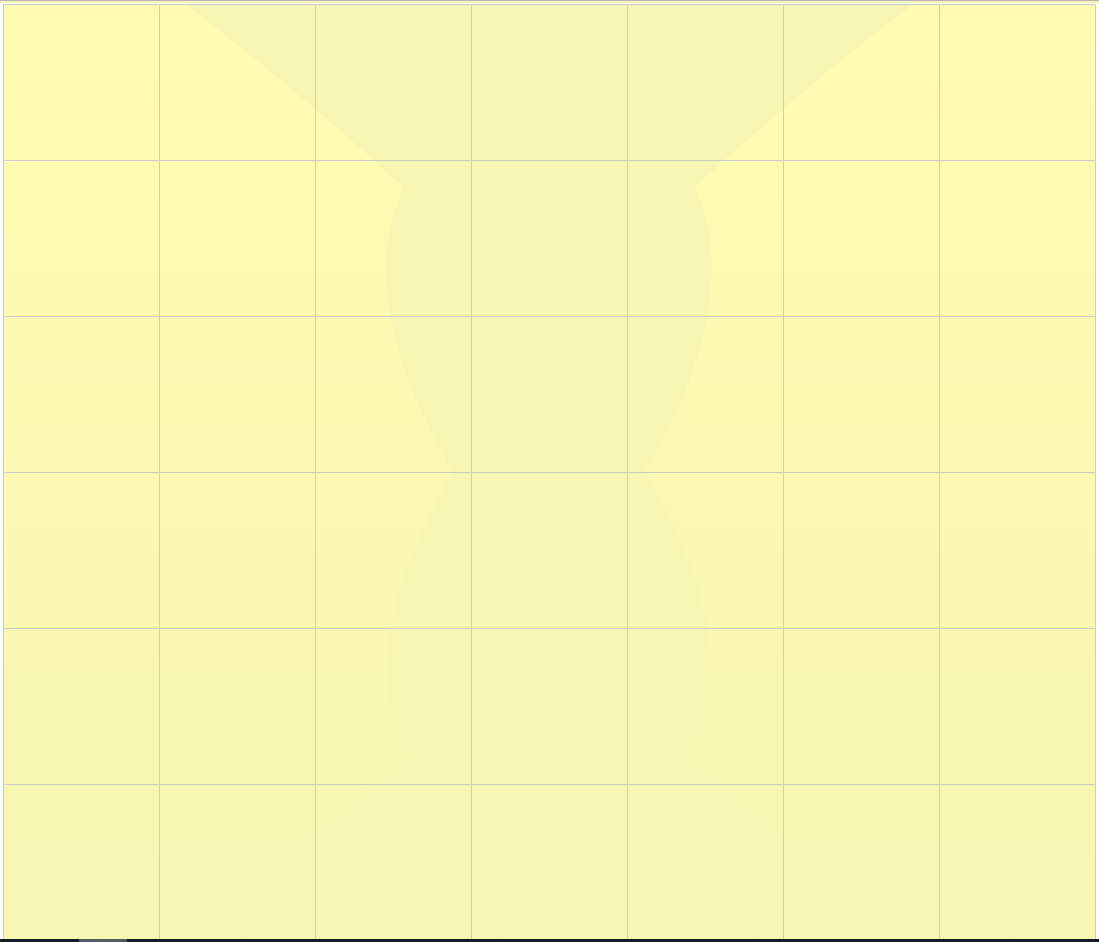
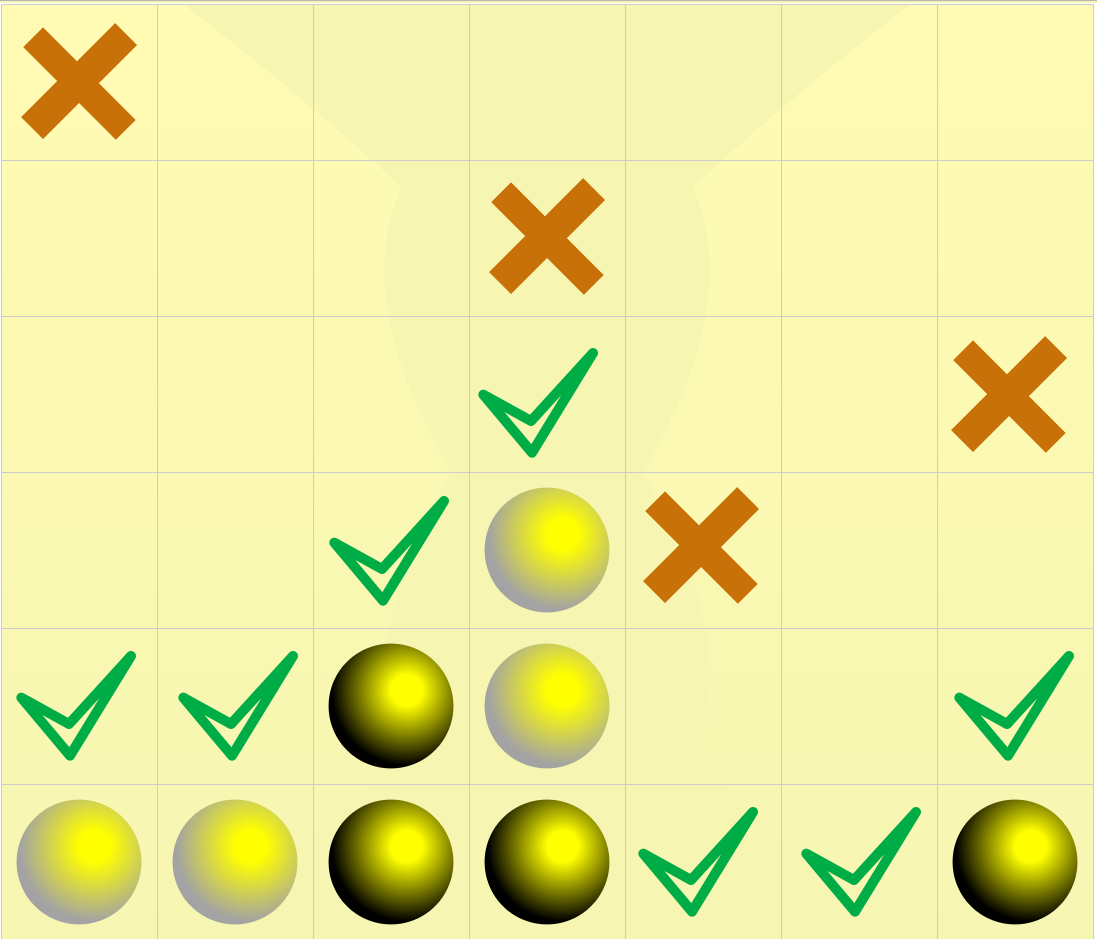
screen size photo loader

diff --git a/js/Website.js b/js/Website.js
@@ -13,7 +13,7 @@ const SS = {
     btnSkip: document.getElementById("skip"),
     btn1: document.getElementById("goToGame"),
     instr1: document.getElementById("instr"),
-    draw1: document.getElementById("draw-1"),
+    drawWelcome: document.getElementById("draw-1"),
 
     drawIndex: 0,
 
@@ -88,34 +88,32 @@ const DS = {
 // this method checks every 3 seconds screen size and load proper draw
     _widthChecker: function(){
         let width = window.screen.width;
-
-        setInterval(() => {
-          width =   window.screen.width;
-          console.log("widthChecker", width);
-          
-        }, 3000);
         return width;
     },
-    draw1 : document.getElementById("draw-1"),
-    draw2 : document.getElementById("draw-2"),
-    draw3 : document.getElementById("draw-3"),
-    draw4 :  document.getElementById("draw-4"),
-    loadBigPhoto: function(width){
-        console.log("width", width);
-    // TO DO TO DO TO DO - stil not loading proper photo
+    draw4 : document.getElementById("draw-4"),
+    draws: [document.getElementById("draw-1"), document.getElementById("draw-2"), document.getElementById("draw-3")],
+    _loadBigPhoto: function(width){
         if (width > 850) {        
-            //if big screen load bigger draw    
-            this.draw1.src = "res/1xl.png"
-            console.log("suuukces",  this.draw1.src);
+//if big screen load bigger draw                
+            for (let i = 0; i < 3; i++) {
+                this.draws[i].src = "res/" + [i] + "xl.png"                
+             }
+             this.draw4.src = "res/0xl.png";
         } else {
-            //if small screen use default small photo
-            this.draw1.src = "res/1s.png";
-            console.log("suuukces",  this.draw1.src);
+//if small screen use default small photo
+            for (let i = 0; i < 3; i++) {
+                this.draws[i].src = "res/" + [i] + "s.png"
+            }
+            this.draw4.src = "res/0s.png";
         }
     }
 }
-DS.loadBigPhoto(DS._widthChecker());
 
+// screen size photo loader
+setInterval(() => {
+    let width = DS._widthChecker()
+    DS._loadBigPhoto(width);
+    }, 1000);
 
 // main screen switches
 SS.screen2.addEventListener("click", function(e){
@@ -145,11 +143,11 @@ SS.btnNext.addEventListener("click", function(e){
 });
 SS.btnPrev.addEventListener("click", function(e){
     e.preventDefault();
-    SS._goNext(SS.instr1,SS.draw1);
+    SS._goNext(SS.instr1,SS.drawWelcome);
 })
 SS.btnNext.addEventListener("click", function(e){
     e.preventDefault();
-    SS._goNext(SS.instr1, SS.draw1);
+    SS._goNext(SS.instr1, SS.drawWelcome);
 })
 
 

diff --git a/index.html b/index.html
@@ -85,19 +85,19 @@ change canvas size
                     <div class="mainScreen__display">
                         <p class="mainScreen__firstInstruction" id="instr">Click on "Prev" and "Next" button to read game instructions. Use "Skip" to start game without instructions.</p>
                         <div class="mainScreen__drawContainer">
-                                <img src="res/1s.png" alt="instruction draw - playboard" class="mainScreen__draw" id="draw-1">
+                                <img src="res/0s.png" alt="instruction draw - playboard" class="mainScreen__draw" id="draw-1">
                                 <p class="mainScreen__drawDescription">Playboard has 6x7 fields, but focus on very bottom...</p>
                         </div>
                         <div class="mainScreen__drawContainer">
-                                <img src="res/2s.png" alt="instruction draw - putting bals" class="mainScreen__draw" id="draw-2">
+                                <img src="res/1s.png" alt="instruction draw - putting bals" class="mainScreen__draw" id="draw-2">
                                 <p class="mainScreen__drawDescription">... because You can put balls only on very bottom fields</p>
                         </div>
                         <div class="mainScreen__drawContainer">
-                                <img src="res/3s.png" alt="instruction draw - how to win" class="mainScreen__draw" id="draw-3">
+                                <img src="res/2s.png" alt="instruction draw - how to win" class="mainScreen__draw" id="draw-3">
                                 <p class="mainScreen__drawDescription">In order to win put 4 balls in one row - horizontal, vertical or oblique</p>
                         </div>
                         <div class="mainScreen__drawContainer">
-                                <img src="res/1s.png" alt="call to action- ready to play?" class="mainScreen__draw" id="draw-4">
+                                <img src="res/0s.png" alt="call to action- ready to play?" class="mainScreen__draw" id="draw-4">
                                 <p class="mainScreen__drawDescription">Ready to play? Tap on "Skip" button below</p>
                         </div>
                     </div>
